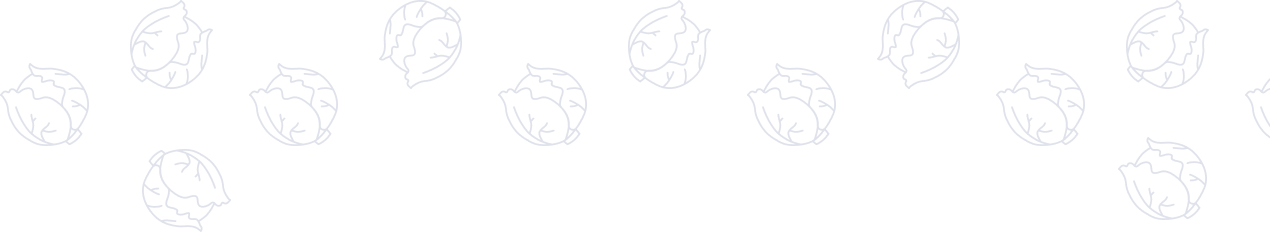
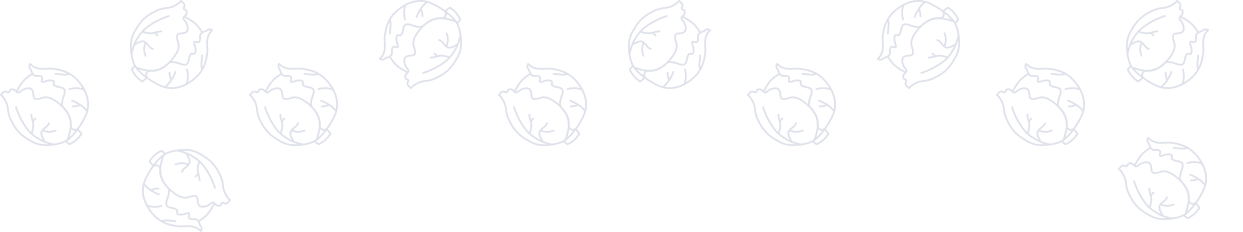
main component style

diff --git a/src/components/MainPage/MainPage.styled.jsx b/src/components/MainPage/MainPage.styled.jsx
@@ -5,16 +5,19 @@ import group from '../../images/kapusta_background.png';
 import two from '../../images/mainImg/two.svg';
 
 export const MainSt = styled.div`
-  width: 320px;
+  // width: 320px;
+  width: 100%;
   margin: 0 auto;
   min-height: 820px;
   background: url(${rightTop}) top 104px right -35px no-repeat,
     url(${down}) bottom 5px left 35px no-repeat;
+  // background: url(${rightTop}) top 104px right -35px repeat-x,
+  //   url(${down}) bottom 5px left 35px no-repeat;
   position: relative;
   padding-bottom: 160px;
 
   @media screen and (min-width: 768px) {
-    width: 768px;
+    // width: 768px;
     margin: 0 auto;
     padding-left: 26px;
     padding-right: 26px;
@@ -24,18 +27,19 @@ export const MainSt = styled.div`
       url(${two}) bottom 300px left 353px no-repeat;
   }
   @media screen and (min-width: 1280px) {
-    width: 1280px;
+    // width: 1280px;
     margin: 0 auto;
     padding-left: 26px;
     padding-right: 26px;
     min-height: 1024px;
-    background: url(${group}) top 30px left 5px no-repeat,
+    background: url(${group}) top 30px left 5px repeat-x,
       url(${two}) bottom 90px left 260px no-repeat;
   }
 `;
 
 export const MainAuth = styled.div`
-  width: 320px;
+  // width: 320px;
+  width: 100%;
   margin: 0 auto;
   background-size: 83px;
   position: relative;
@@ -43,7 +47,7 @@ export const MainAuth = styled.div`
 
   @media screen and (min-width: 768px) {
     min-height: 1024px;
-    width: 768px;
+    // width: 768px;
     margin: 0 auto;
     background: url(${down}) top 104px right -35px no-repeat,
       url(${two}) bottom 100px right 90px no-repeat;
@@ -52,12 +56,13 @@ export const MainAuth = styled.div`
   }
 
   @media screen and (min-width: 1280px) {
-    width: 1280px;
+    // width: 1280px;
     margin: 0 auto;
     padding-left: 26px;
     padding-right: 26px;
     min-height: 850px;
-    background: url(${group}) bottom 0px left no-repeat;
+    background: url(${group}) bottom 0px left repeat-x;
+    // background: url(${group}) top 30px left 5px repeat-x
   }
 `;
 
@@ -66,7 +71,8 @@ export const TopAuth = styled.div`
   top: 0;
   left: 0;
   z-index: -2;
-  width: 320px;
+  // width: 320px;
+  width: 100%;
   margin: 0 auto;
   padding-left: 26px;
   padding-right: 26px;
@@ -78,12 +84,12 @@ export const TopAuth = styled.div`
 
   @media screen and (min-width: 768px) {
     height: 530px;
-    width: 768px;
+    // width: 768px;
     margin: 0 auto;
   }
   @media screen and (min-width: 1280px) {
     height: 580px;
-    width: 1280px;
+    // width: 1280px;
     margin: 0 auto;
     padding-left: 26px;
     padding-right: 26px;
@@ -95,14 +101,15 @@ export const Top = styled.div`
   top: 0;
   left: 0;
   z-index: -2;
-  width: 320px;
+  // width: 320px;
+  width: 100%;
   height: 313px;
   border-bottom-left-radius: 100px;
   background: #f5f6fb;
 
   @media screen and (min-width: 768px) {
     background-color: #f5f6fb;
-    width: 768px;
+    // width: 768px;
     margin: 0 auto;
     height: 530px;
     box-shadow: none;
@@ -110,7 +117,7 @@ export const Top = styled.div`
 
   @media screen and (min-width: 1280px) {
     background-color: #f5f6fb;
-    width: 1280px;
+    // width: 1280px;
     margin: 0 auto;
     height: 580px;
     box-shadow: none;

diff --git a/src/components/Header/Header.styled.jsx b/src/components/Header/Header.styled.jsx
@@ -18,21 +18,22 @@ export const MenuUl = styled.ul`
   justify-content: space-between;
   background-color: #ffffff;
   height: 58px;
-  width: 320px;
+  // width: 320px;
+  width: 100%;
   margin: 0 auto;
   padding-left: 20px;
   padding-right: 20px;
   list-style: none;
 
   @media screen and (min-width: 768px) {
-    width: 768px;
+    // width: 768px;
     margin: 0 auto;
     padding-left: 26px;
     padding-right: 26px;
   }
 
   @media screen and (min-width: 1280px) {
-    width: 1280px;
+    // width: 1280px;
     margin: 0 auto;
     padding-left: 26px;
     padding-right: 26px;
@@ -82,17 +83,24 @@ export const ExitBtn = styled.button`
 
   @media screen and (min-width: 768px) {
     display: block;
-    text-decoration: underline;
+    // text-decoration: underline;
     border: none;
-    font-weight: 500;
-    font-size: 14px;
-    line-height: 1.17;
-    letter-spacing: 0.04em;
-    color: var(--text-color-gray);
     background-color: transparent;
     cursor: pointer;
     margin-top: 21px;
   }
+`;
+
+export const Exit = styled.p`
+  position: relative;
+  border: none;
+  font-weight: 500;
+  font-size: 14px;
+  line-height: 1.17;
+  letter-spacing: 0.04em;
+  color: var(--text-color-gray);
+  transition: color 250ms cubic-bezier(0.4, 0, 0.2, 1);
+}
 `;
 
 export const LogoutSvg = styled.img`

diff --git a/src/components/Header/Header.jsx b/src/components/Header/Header.jsx
@@ -42,7 +42,9 @@ const Header = () => {
             </Styled.UserData>
             <Styled.Span></Styled.Span>
             <Styled.LogoutSvg src={logoutSvg} onClick={handleClick} />
-            <Styled.ExitBtn onClick={handleClick}>Exit</Styled.ExitBtn>
+            <Styled.ExitBtn onClick={handleClick}>
+              <Styled.Exit>Exit</Styled.Exit>
+            </Styled.ExitBtn>
             {isShowModal && (
               <Modal
                 onClick={handleClick}
